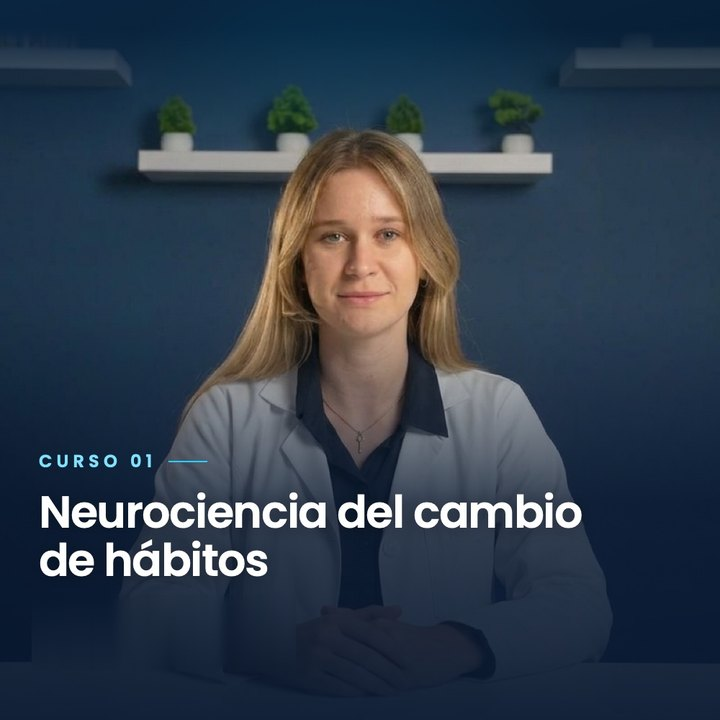
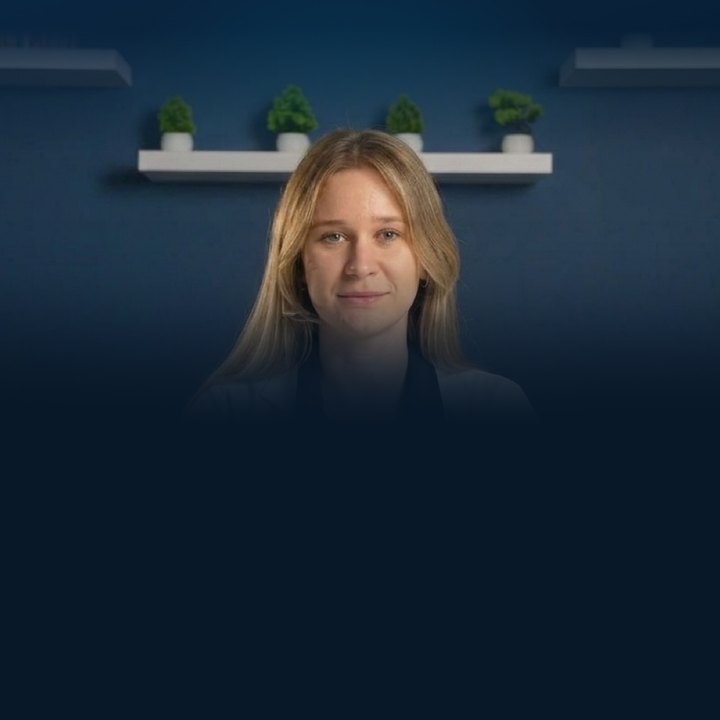
Demo: títulos de portadas más grandes y revistas en azul oscuro

Changed region(s): [[0.0306, 0.3667, 1.0, 0.9167]]

diff --git a/public/neurociencia/prueba-formato.html b/public/neurociencia/prueba-formato.html
@@ -151,7 +151,12 @@ p{margin:0}
 .tag-off{background:var(--amarillo);color:var(--navy-2);font:700 12px/1 "Poppins";letter-spacing:.06em;padding:6px 10px;border-radius:6px}
 .regalos-grid{display:grid;grid-template-columns:repeat(3,1fr);gap:10px;padding:14px}
 .regalo{display:flex;flex-direction:column;align-items:center;gap:7px;text-align:center}
-.regalo img{width:100%;aspect-ratio:1/1;object-fit:cover;background:#0B2036;border-radius:10px;box-shadow:0 6px 14px -8px rgba(10,37,64,.5)}
+.regalo{position:relative;container-type:inline-size}
+.regalo img{width:100%;aspect-ratio:1/1;object-fit:cover;background:#091828;border-radius:10px;box-shadow:0 6px 14px -8px rgba(10,37,64,.5)}
+.regalo-txt{position:absolute;left:8%;right:6%;bottom:8%;display:flex;flex-direction:column;gap:4%;text-align:left}
+.regalo-txt small{display:flex;align-items:center;gap:5%;font:600 6cqw/1 "Poppins";letter-spacing:.14em;text-transform:uppercase;color:var(--cyan)}
+.regalo-txt small::after{content:"";width:16%;height:1px;background:var(--cyan)}
+.regalo-txt b{font:700 9.6cqw/1.1 "Poppins";letter-spacing:-.02em;color:#fff;overflow-wrap:anywhere}
 .regalo span{font-size:13px;line-height:1.25;font-weight:700;color:var(--navy);letter-spacing:-.01em}
 @media (min-width:860px){.regalo span{font-size:14.5px}}
 
@@ -194,7 +199,7 @@ p{margin:0}
 .revistas p{font:700 11px/1.65 "Poppins";letter-spacing:.16em;text-transform:uppercase;color:#566E7D;text-align:center;padding:0 16px}
 .revistas-ventana{margin-top:10px;overflow:hidden;-webkit-mask-image:linear-gradient(90deg,transparent,#000 12%,#000 88%,transparent);mask-image:linear-gradient(90deg,transparent,#000 12%,#000 88%,transparent)}
 .marquesina{display:flex;width:max-content;animation:correr 60s linear infinite}
-.marquesina img{width:152px;height:44px;object-fit:contain;margin:0 10px;filter:brightness(0);opacity:.45}
+.marquesina img{width:152px;height:44px;object-fit:contain;margin:0 10px;filter:brightness(0) invert(11%) sepia(39%) saturate(2400%) hue-rotate(190deg) brightness(92%) contrast(98%);opacity:1}
 @keyframes correr{to{transform:translateX(-50%)}}
 
 /* separador entre secciones: línea que se desvanece con el isotipo al centro */
@@ -617,12 +622,12 @@ p{margin:0}
     <div class="regalos">
       <div class="regalos-top"><b>Qué incluye el programa</b><span class="tag-off">40% OFF</span></div>
       <div class="regalos-grid">
-        <div class="regalo"><img src="assets/portadas/neurociencia-cuadro.jpg" alt="Curso de Neurociencia del Cambio de Hábitos" loading="lazy"></div>
-        <div class="regalo"><img src="assets/portadas/entrenamiento-cuadro.jpg" alt="Curso de Fundamentos de Entrenamiento" loading="lazy"></div>
-        <div class="regalo"><img src="assets/portadas/nutricion-cuadro.jpg" alt="Curso de Fundamentos de Nutrición" loading="lazy"></div>
-        <div class="regalo"><img src="assets/portadas/app-cuadro.jpg" alt="Aplicación con Rutinas y Plan de Nutrición" loading="lazy"></div>
-        <div class="regalo"><img src="assets/portadas/protocolos-cuadro.jpg" alt="Protocolos para Días Difíciles" loading="lazy"></div>
-        <div class="regalo"><img src="assets/portadas/comunidad-cuadro.jpg" alt="Comunidad Privada" loading="lazy"></div>
+        <div class="regalo"><img src="assets/portadas/neurociencia-cuadro.jpg" alt="" loading="lazy"><span class="regalo-txt"><small>Curso 01</small><b>Neurociencia del cambio de hábitos</b></span></div>
+        <div class="regalo"><img src="assets/portadas/entrenamiento-cuadro.jpg" alt="" loading="lazy"><span class="regalo-txt"><small>Curso 02</small><b>Fundamentos de entrenamiento</b></span></div>
+        <div class="regalo"><img src="assets/portadas/nutricion-cuadro.jpg" alt="" loading="lazy"><span class="regalo-txt"><small>Curso 03</small><b>Fundamentos de nutrición</b></span></div>
+        <div class="regalo"><img src="assets/portadas/app-cuadro.jpg" alt="" loading="lazy"><span class="regalo-txt"><small>Curso 04</small><b>Rutinas y plan de nutrición en la app</b></span></div>
+        <div class="regalo"><img src="assets/portadas/protocolos-cuadro.jpg" alt="" loading="lazy"><span class="regalo-txt"><small>Curso 05</small><b>Protocolos para días difíciles</b></span></div>
+        <div class="regalo"><img src="assets/portadas/comunidad-cuadro.jpg" alt="" loading="lazy"><span class="regalo-txt"><small>Curso 06</small><b>Comunidad privada</b></span></div>
       </div>
     </div>
   </div>
